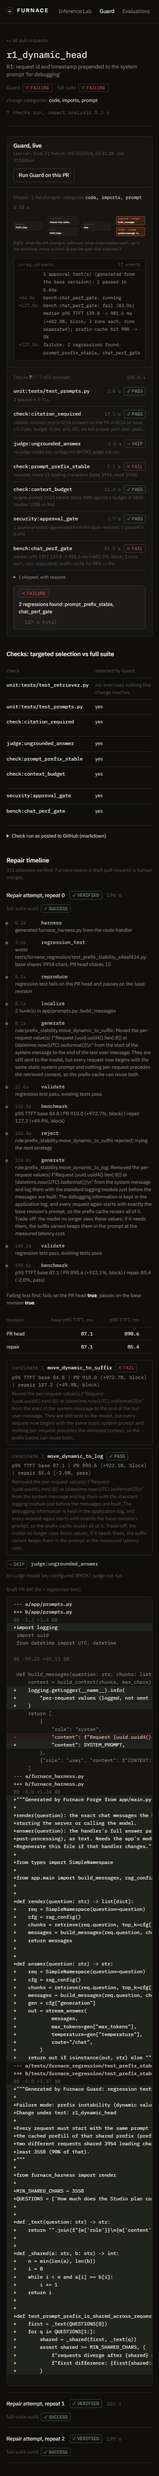
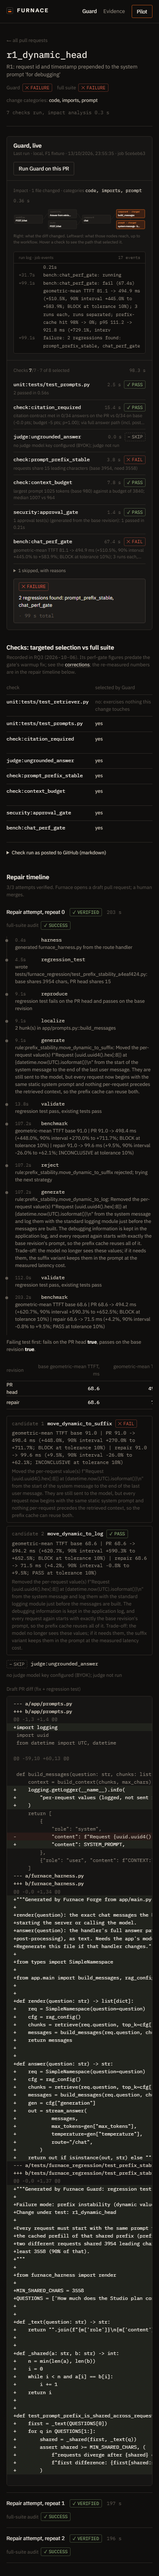
Rehearsal on the new landing (6/6), refreshed demo screenshots, hosted API checked in production mode, README leads with the narrowed product; checklist, ledger and handoff updated
- Rehearsal 2026-10-14 at 8332da8: landing + /lab live panel, GitHub scan to Blueprint 5.7 s, graph trace, Run it now 80/80, Guard flagged R1 in 101 s, /bench; no page errors
- docs/demo-shots refreshed at 1440 and 390 px (no console errors, no horizontal overflow), including /pilot
- docs/deploy.md: the API image from the committed tree in FURNACE_ENV=prod: migrations on start, runner details hidden, live lab off, fixture scans 404, labels 403, webhooks 503 without a secret, a public GitHub scan succeeds. Not deployed
- README: the product as a pre-merge serving-performance check; workflow; status (no live GitHub run, no hosted deployment); repair vs PR; pre-push Linux CI step
- completion.md, claims.md, CONTINUE.md: this session's verified state, the CI e-mail traced to 201c90d (fixed by 49bb997)

Changed region(s): [[0.0308, 0.0, 0.9538, 0.996], [0.0308, 0.4358, 0.0615, 0.4669]]

diff --git a/README.md b/README.md
@@ -2,25 +2,36 @@
 
 [![ci](https://github.com/dilipna/Furnace4LLM/actions/workflows/ci.yml/badge.svg)](https://github.com/dilipna/Furnace4LLM/actions/workflows/ci.yml)
 
-**Make your LLM faster without breaking it.**
+**Catch the pull request that makes your LLM app slow.**
 
-Furnace is an inference-reliability retrofit for LLM applications that already exist.
+Furnace benchmarks each pull request of a Python LLM application on the team's own model
+server. It blocks changes that break prompt caching or raise time to first token, and it
+drafts a fix it has already tested, for a person to review. It is built for small teams that
+serve their own models (measured on vLLM), where a harmless-looking prompt edit can multiply
+latency and GPU cost without failing a single test or quality eval.
 
-- **Scan** reconstructs an app from its repository into a *behavior-to-code reliability graph* and
-  a Blueprint of evidence-backed findings (every claim cites a file and line, with a confidence).
-  Findings are advisory: on held-out set 6 half of them were wrong (precision 39/77).
-- **Forge** opens a draft pull request that installs only what the Blueprint justified, after
-  validating it in a sandbox.
-- **Guard** runs only the evals and serving benchmarks a pull request can affect, reports a GitHub
-  check run, and on a prompt-cache regression writes the failing test first, tries repair
-  strategies in order, validates each in a sandbox and against a perf gate, and opens a draft PR
-  with the one that passed. A human always merges.
+The workflow: **connect** a repository through a GitHub App → **baseline** main's real
+prompts on the team's endpoint → **inspect** a PR and select only the checks it can affect →
+**gate** it on geometric-mean TTFT with a run-level 90% interval (PASS / BLOCK /
+INCONCLUSIVE) → **repair** a supported regression (failing test first, rule-based fixes,
+sandbox and gate) → **review**: a draft PR that a human merges or closes.
+
+- **Guard** is the product: the check, the gate and the repair loop.
+- **Scan** maps an app's call sites, prompts, models and serving settings from source (the
+  graph Guard uses). Its findings are advisory: on five unseen apps 39 of 77 were right.
+- **Forge** sets the checks up as a draft PR, sandbox-validated first.
+
+Status: works end to end on two fixture apps on one laptop GPU. The GitHub App path is tested
+against a mock GitHub; **the live run on a real repository is pending**. There is no hosted
+deployment yet. Pilot setup and limits: **[docs/pilot.md](docs/pilot.md)**; founder
+materials: **[docs/founder/](docs/founder/brief.md)**.
 
 Every number in this repository comes from a documented command; negative results and
 corrections are reported. See **[FurnaceBench](docs/furnacebench.md)**, the reports in
-`bench/results/<date>/`, and the dated `CORRECTIONS.md` shown on the `/bench` page.
-Short **[case study](docs/case-study.md)** · three-minute **[demo script](docs/demo-3min.md)** ·
-final **[acceptance checklist](docs/completion.md)**.
+`bench/results/<date>/`, the dated `CORRECTIONS.md` shown on the `/bench` page, and the
+**[claims ledger](docs/claims.md)**. Short **[case study](docs/case-study.md)** ·
+three-minute **[demo script](docs/demo-3min.md)** · final
+**[acceptance checklist](docs/completion.md)**.
 
 **Deterministic vs model-powered.** Scan, Forge, Guard's impact analysis, the perf gate and
 repair are deterministic (AST and config analysis, graph diffs, load generation, run-level
@@ -34,7 +45,7 @@ measured; an LLM judge is built but not calibrated (no labels or key yet).
 | Does Scan find LLM call sites in apps it has never seen? | On each held-out set's **first** scan (labels committed before it): recall **4/34** call sites (12%; per set 0/8, 1/5, 1/9, 2/9, 0/3), precision 4/4. After fixes made for those misses, the same 34 labels: 33/34 at precision 33/33 (a fit to apps the scanner was changed for, not a held-out result). Misses at first scan were unsupported SDKs, script-level calls and, in the newest sets, agent runners (OpenAI Agents SDK) and clients held in containers. Precision is 1.00 for call sites and routes only; prompts, workflows and contradictions have false positives. **Held-out set 6** (five apps picked by a fixed search, scanner frozen, labels committed before the scan): call sites **32/48** found, 32/32 correct (per app 24/27, 5/12, 3/5, 0/3, 0/1); Blueprint findings **precision 39/77, recall 39/64**, while **148/148** evidence links resolved, so link validity says nothing about correctness. Labels by the developer agent, not independently reviewed | `bench/results/2026-10-12-reconcile/scanner_reconciliation.md`, `bench/results/2026-10-13-set6/NOTES.md` |
 | Does it stay safe on code it does not understand? | Held-out set 4, first run: docs-only and unrelated-code PRs selected no checks (6/6); an injected prompt regression was fully handled in 0/3 apps on first run, 3/3 after two fixes (no longer held-out); Forge refused with a reason where it could not slice a harness and opened no PR without a green sandbox run. Evidence links of findings are internally consistent (10/10 items on the first run; 20/20 now, 1 of them a file-existence check); that is not a measure of whether a finding is right, which no label set measures | `bench/results/2026-10-11-external/`, `2026-10-12-reconcile/` |
 | How large is a prompt-cache regression? | R1 (request id at the top of the system prompt): p95 TTFT **+905% to +1,004%**, prefix-cache hit 98% -> 0% | `bench/results/2026-10-09-gate-warmup-v2/rq5.md` |
-| Can Furnace repair it without making things worse? | Under the frozen gate (G3): **verified in 3/3 repeated trials of one supported scenario** (fixture F1, regression R1, two rule strategies in fixed order), not a rate over apps or regressions. Each time the generated regression test failed on the PR and passed on main; the first strategy was rejected (INCONCLUSIVE once, BLOCK at +37.8% and +39.6%); the second (log the request id and timestamp instead of sending them) passed at +4.2%, +0.9%, +1.7% vs main (90% intervals up to +9.5%), prefix-cache hit back to 98%, and rendered byte-identical prompts to main for 34/34 questions. Every executed audit check passed; the LLM judge was skipped (no key; not part of the acceptance rule). R2 (context bloat) is refused as unsupported. Under the gate in use until 2026-10-12 the same loop verified 1/3 (`2026-10-12-gate-ci/rq5.md`); the two are not pooled. No LLM strategy | `bench/results/2026-10-12-gate-validation/rq5.md`, `NOTES.md` there |
+| Can Furnace repair it without making things worse? | Under the frozen gate (G3): **verified in 3/3 repeated trials of one supported scenario** (fixture F1, regression R1, two rule strategies in fixed order), not a rate over apps or regressions. Each time the generated regression test failed on the PR and passed on main; the first strategy was rejected (INCONCLUSIVE once, BLOCK at +37.8% and +39.6%); the second (log the request id and timestamp instead of sending them) passed at +4.2%, +0.9%, +1.7% vs main (90% intervals up to +9.5%) and -85.5%, -85.6%, -86.0% vs the PR (intervals entirely below 0, as the acceptance rule requires), prefix-cache hit back to 98%, and rendered byte-identical prompts to main for 34/34 questions. Every executed audit check passed; the LLM judge was skipped (no key; not part of the acceptance rule). R2 (context bloat) is refused as unsupported. Under the gate in use until 2026-10-12 the same loop verified 1/3 (`2026-10-12-gate-ci/rq5.md`); the two are not pooled. No LLM strategy | `bench/results/2026-10-12-gate-validation/rq5.md`, `NOTES.md` there |
 | How noisy is the perf gate, and what does it decide on? | The gate was redesigned on 2026-10-12 and the design frozen before implementation: it decides on **geometric-mean TTFT** with the **run** as the unit and a **90% Welch interval** (p95 is reported, not decisive; a p95 over 34 requests cannot confirm a 10% tolerance). On the 20 earlier A/A trials, used to choose the rule, it gives PASS 87% / INCONCLUSIVE 13% / false FAIL 0% (optimistic: chosen there). Fresh validation, rule unchanged (63 trials recorded = 60 counted + 3 affected and replaced, all on AC, 780-828 MHz; every trial in `validation/trials.md`): unchanged code (V1 24 + V2 12, as planned before any trial) **false FAIL 0/36** (exact 95% CI 0-9.7%), PASS 29/36, INCONCLUSIVE 7/36; the R1 regression **BLOCK 6/6**. The graded regressions measured only +4% to +7% inside the gate (their calibration had said +13%, +18%, +30%), so they came out INCONCLUSIVE 15/18 and PASS 3/18: detection of regressions just above the 10% tolerance is **not shown**. A latency-location gate, not a tail-SLO gate; p95 reported separately | `docs/gate-revision.md`, `bench/results/2026-10-12-gate-validation/validation/report.md` and `NOTES.md` |
 | Does Guard save time? | 13 PRs: ran 46% of checks, caught 3/3 full-suite failures, same conclusion 13/13 | `bench/results/2026-10-06/rq3.md` |
 | What does prefix caching buy on the real workload? | caching off raised p95 TTFT in all 15 cells, same sign in every paired repeat: +193% to +433% at max-num-seqs 32 (median per cell), +96% to +433% across all configs | `bench/results/2026-10-06/rq4/rq4.md` |
@@ -62,7 +73,7 @@ measured; an LLM judge is built but not calibrated (no labels or key yet).
 | path | what |
 |---|---|
 | `apps/api` | FastAPI: scans, SSE logs, Blueprint, graph, live lab telemetry and runs, Guard runs, FurnaceBench results, labeling |
-| `apps/web` | Next.js UI: landing, Blueprint, graph, Inference Lab, Guard, Evaluations, FurnaceBench, pricing |
+| `apps/web` | Next.js UI: landing, pilot onboarding, Blueprint, graph, Inference Lab, Guard, Evaluations, FurnaceBench |
 | `packages/inference` | `furnace-bench`, standalone (no dependency on the rest of Furnace) |
 | `packages/furnace` | extraction, reconstruction, Blueprint, evals, Forge, Guard, repair, GitHub, sandbox, jobs, CLI |
 | `fixtures/` | F1 (`support-rag-py`, RAG + approval-gated tool on vLLM), F2 (`agent-actions-py`, tool-calling agent) and their scripted PR scenarios |
@@ -92,6 +103,8 @@ live stream through the web proxy and the GitHub App. `uv run poe demo-down` sto
 
 Checks: `uv run poe check` (ruff, format, import-linter, pyright, pytest; the sandbox tests need
 Docker). Web: `pnpm lint && pnpm exec tsc --noEmit` in `apps/web`. CI runs both on every push.
+Before pushing, run the CI jobs in Linux on the committed tree: `bash scripts/ci_linux.sh`
+(non-root user, sandbox tests included; Windows runs miss Linux-only failures).
 
 ## Runner commands
 

diff --git a/docs/completion.md b/docs/completion.md
@@ -74,8 +74,11 @@ name (history in git).
 |---|---|---|
 | Experiments finished under the frozen protocol, negative results kept | verified | RQ5 and optimizer as above |
 | Documentation committed | verified | 34aa551 (results), baa02a2 and the final commit (docs, copy) |
-| Required checks on the final code commit (`poe check`, web lint/tsc/build) | verified | at 61124c6: ruff, format, import contracts 2/2, pyright 0 errors, pytest 389 passed / 2 skipped; web lint, tsc, `next build` ok. Later commits change docs only. Linux CI runs after a push (not pushed yet) |
-| One end-to-end rehearsal (`scripts/rehearse.py`) | verified (local path only) | 2026-10-13 at baa02a2: 6/6 steps, no page errors; Guard flagged R1 (`docs/demo.md` rehearsal record). The GitHub steps are not covered (blocked, E) |
+| Required checks on the final code commit (`poe check`, web lint/tsc/build) | verified | 2026-10-14 at 5806c30: `scripts/ci_linux.sh` ran all three CI jobs in Linux containers on the committed tree (non-root runner user, sandbox tests included): ruff, format, import contracts, pyright 0 errors, pytest 393 passed; web lint, tsc, `next build`; API image builds and imports. Windows `poe check` 390 passed / 2 skipped. (The CI failure e-mail of 2026-10-14 is run 38297848766 on d31e087, 2026-10-12, fixed by ad295ec; every later pushed run is green.) Not pushed yet: GitHub CI runs after the owner pushes |
+| One end-to-end rehearsal (`scripts/rehearse.py`) | verified (local path only) | 2026-10-14 at 5806c30 on the new landing: 6/6 steps, no page errors; lab live, Run it now 80/80, Guard flagged R1 (FAILURE) in 101 s (`docs/demo-shots/rehearsal-2026-10-14/timings.json`). The GitHub steps are not covered (blocked, E) |
 | Three-minute demo script | verified | `docs/demo-3min.md` |
-| Demo recording | verified (silent, local path) | `docs/demo-video/demo-2026-10-13-1537.webm` (git-ignored); a narrated three-minute take is the owner's |
+| Demo recording | verified (silent, local path) | `docs/demo-video/demo-2026-10-13-2357.webm` (local time; the 2026-10-14 UTC rehearsal; git-ignored); a narrated three-minute take is the owner's |
 | Case study | verified | `docs/case-study.md` |
+| Landing, pilot onboarding, status vocabulary (2026-10-14) | verified locally | desktop 1440 and phone 390 px: no console errors, no horizontal overflow (`scripts/demo_shots.py`, `docs/demo-shots/`); every landing figure read from a result file (`docs/claims.md`) |
+| Hosted API in production mode | verified locally, **not deployed** | `docs/deploy.md` "Local production-mode check, 2026-10-14" |
+| Founder brief, pitch outline, validation plan, resume bullets | written | `docs/founder/` |

diff --git a/CONTINUE.md b/CONTINUE.md
@@ -1,9 +1,30 @@
-# Furnace: session handoff (updated 2026-10-13 UTC, covers Oct 5-13 work)
+# Furnace: session handoff (updated 2026-10-14 UTC, covers Oct 5-14 work)
 
 Paste this file's path into a new Claude Code session ("read CONTINUE.md and continue"). Approved plan:
 `C:\Users\user\.claude\plans\pasted-content-id-65d9-you-are-streamed-falcon.md`. Memory:
 `C:\Users\user\.claude\projects\c--Users-user-OneDrive-Pictures-saas-reviewer\memory\` (read `laptop-gpu-power-cap.md`).
 Deadlines: feature freeze **Oct 15**, pitch **Oct 17**. No fabricated numbers; negative results are reported.
+
+## 2026-10-14 session (product focus, landing, pilot, founder docs), newest first
+- **Focus narrowed:** Furnace = a pre-merge serving-performance check for Python LLM apps on
+  self-hosted models (Guard is the product; Scan = onboarding map, findings advisory; Forge =
+  setup). Landing rebuilt around the recorded R1 pull request per trial (real diff generated
+  from the scenario by `scripts/export_pr_diff.py`, drift-tested); `/pilot` onboarding with
+  live API/runner status; `/pricing` redirects there. Founder docs in `docs/founder/`.
+- **Correctness fixes:** rq5.md now shows repair vs PR (-85.5/-85.6/-86.0%, re-rendered from
+  stored data with `bench/rq5.py --render`); Forge's `furnace.yaml` falsely said Guard reads it
+  and named p95 (fixed); old hero's +3% mixed medians across trials (removed); /guard RQ3 table
+  labeled with its G0 gate; `/api/runners` hides host details in prod.
+- **CI:** the CI failure e-mail was run 38297848766 on d31e087 (2026-10-12), fixed by ad295ec.
+  New rule: run `bash scripts/ci_linux.sh` (all three CI jobs in Linux containers, non-root,
+  on HEAD as committed) before every push. Passed at 5806c30. Runners pinned to ubuntu-24.04.
+- **Verified:** rehearsal 6/6 on the new landing (`docs/demo-shots/rehearsal-2026-10-14/`);
+  API image in production mode (`docs/deploy.md`). Nothing pushed or deployed this session.
+- **Still blocked on the owner:** GitHub App + public `furnace-demo-f1` (live run), push
+  approval, hosting accounts, `NEXT_PUBLIC_CONTACT_URL` for the pilot button (defaults to
+  the LinkedIn profile).
+- Windows gotcha: killing the API reloader leaves `multiprocessing` `spawn_main` children
+  holding :8010 with old code; stop them too.
 
 ## Release state (2026-10-13 evening): bounded portfolio release
 - Final acceptance checklist: `docs/completion.md` (verified / failed / inconclusive / deferred / blocked).

diff --git a/docs/claims.md b/docs/claims.md
@@ -26,6 +26,8 @@ Results from different gate versions are never pooled or shown as one figure.
 | limits tile: small regressions undecided 15/18 | V3b, V3c topk4, topk8; measured range from the set medians | `validation/report.json` | as above | G3 | new: the negative result is on the landing page |
 | limits tiles: call sites 32/48, findings right 39/77 (recall 39/64) | held-out set 6 first scan | pinned `2026-10-13-set6/rq1.json`, `set6/findings.json` | scanner 41ca529, labels ebd5824 | n/a | findings precision added 2026-10-14 |
 | limits tile: live GitHub runs 0 | shown until a `bench/results/<date>-live-github/` campaign exists | campaign list | n/a | n/a | new |
+| /pilot text: "39 of its 77 findings were right" on five unseen apps | static text (the page is prerendered) | `2026-10-13-set6/set6/findings.json` `pooled` | scanner 41ca529 | n/a | frozen held-out result; findings judged by the developer agent, not independently reviewed |
+| landing "How it works": Connect and Review marked "tested against a mock GitHub only" | until the live run is recorded | `docs/completion.md` E | | | update the two markers after `live_run.md` and `verify.md` pass |
 | RQ3 tile (3/3 caught, 46%, 13 PRs) | removed from the landing page 2026-10-14 (G0-era; still on /guard with a G0 label) | `2026-10-06/rq3.json` | | G0 | /guard now says the gate was later found biased and that every perf verdict in that table depends on it |
 | /lab | RQ4 cells, live run | `2026-10-06/rq4`; live runs are labeled live | 780 MHz | n/a | ok |
 | /guard, /guard/<scenario> | RQ3 selections; RQ5 timeline | newest rq3 (G0) and newest rq5 | as recorded | each page names its metric | ok; /guard RQ3 table labeled with its gate (2026-10-14) |

diff --git a/docs/deploy.md b/docs/deploy.md
@@ -32,6 +32,25 @@ cd apps/web && FURNACE_API_URL=http://localhost:8020 pnpm build && pnpm exec nex
 Then open http://localhost:3200: it is what visitors will see (recorded lab run, "Lab GPU
 offline", "Runner offline", corrections on /bench). Remove with `docker rm -f furnace-deploytest`.
 
+### Local production-mode check, 2026-10-14 (commit 5806c30)
+
+Image built from the committed tree (`git archive HEAD | docker build -f apps/api/Dockerfile -`),
+run with `FURNACE_ENV=prod` against an empty database:
+
+| probe | result |
+|---|---|
+| `GET /healthz` | `{"ok":true,"db":true}`: migrations ran on start |
+| `GET /api/runners` | ids `runner-N`, capabilities limited to gpu/docker (no hostname, OS build or driver) |
+| `GET /api/live/telemetry` | `event: disabled` |
+| `GET /api/bench/campaigns` | baked-in results, including `gate_validation` and `set6_findings` |
+| `POST /api/public/scans` kind `fixture` | 404 (dev only) |
+| `POST /api/labels` | 403 "labeling is disabled on this deployment" |
+| `POST /api/github/webhook` without a configured secret | 503 "webhooks are not configured" |
+| `POST /api/public/scans` kind `github` (`peterw/llamav2-chat`) | 201, scan succeeded through the embedded worker |
+
+Not checked here: the Vercel build against this API (same web code as the local production
+build), Supabase's pooler, Render's sleep behavior. Nothing is deployed.
+
 ## 1. Supabase (database)
 
 1. supabase.com → New project (free). Pick a strong database password; region near you.

diff --git a/docs/founder/brief.md b/docs/founder/brief.md
@@ -51,7 +51,7 @@ latency. Payment is untested; candidate models are below.
 | Repair works for one supported scenario | 3/3 repeated trials of one scenario (fixture F1, regression R1): the regression test fails on the PR and passes on main; the repair is -85.5 to -86.0% vs the PR and +0.9 to +4.2% vs main (90% upper bounds at most +9.5%); it sends byte-identical prompts to main for 34/34 questions; the first strategy was rejected by the same gate (`rq5.md`, `rq5/prompt_identity.md`) |
 | Targeted checks | ran 46% of checks with the same conclusion as the full suite on 13/13 scripted PRs, under the gate of 2026-10-06 (later found biased) (`2026-10-06/rq3.md`) |
 | Prefix caching matters on a real workload | caching off raised p95 TTFT by +193% to +433% at max-num-seqs 32 (`2026-10-06/rq4/rq4.md`) |
-| Engineering | FastAPI + Postgres job queue (leases, fencing, timeouts), Docker sandbox with no network, GitHub App with check runs and idempotent draft PRs, webhook HMAC and dedupe; 390 tests on Windows and 391 in Linux CI |
+| Engineering | FastAPI + Postgres job queue (leases, fencing, timeouts), Docker sandbox with no network, GitHub App with check runs and idempotent draft PRs, webhook HMAC and dedupe; 393 tests pass in Linux CI containers (`scripts/ci_linux.sh`, 2026-10-14) |
 
 ## What is not proven
 

diff --git a/docs/demo.md b/docs/demo.md
@@ -59,6 +59,13 @@ tabs: `http://localhost:3100/`, `/lab`, `/pilot`, `/guard/r1_dynamic_head`, `/be
 
 ## Rehearsal record
 
+**2026-10-14 (UTC), at commit 5806c30**, on the redesigned landing (vLLM, runner, API and the
+production web build running): every step passed, no page errors. Landing (recorded PR
+panel) then /lab live panel 12.7 s, GitHub scan to Blueprint 5.7 s, graph trace 1.7 s, Run it
+now 32.1 s (80/80 requests), Guard run on R1 101.4 s (FAILURE: `prompt_prefix_stable` and the
+perf gate), /bench 0.2 s. Screenshots `docs/demo-shots/rehearsal-2026-10-14/`; silent
+recording `docs/demo-video/demo-2026-10-13-2357.webm` (local time; git-ignored).
+
 **2026-10-13, at commit baa02a2** (after `poe demo-up`; pre-flight all OK except the GitHub
 App, which does not exist yet): every step passed, no page errors. Landing + live panel
 8.9 s, GitHub scan to Blueprint 5.1 s, graph trace 1.6 s, Run it now 32.1 s (80/80
